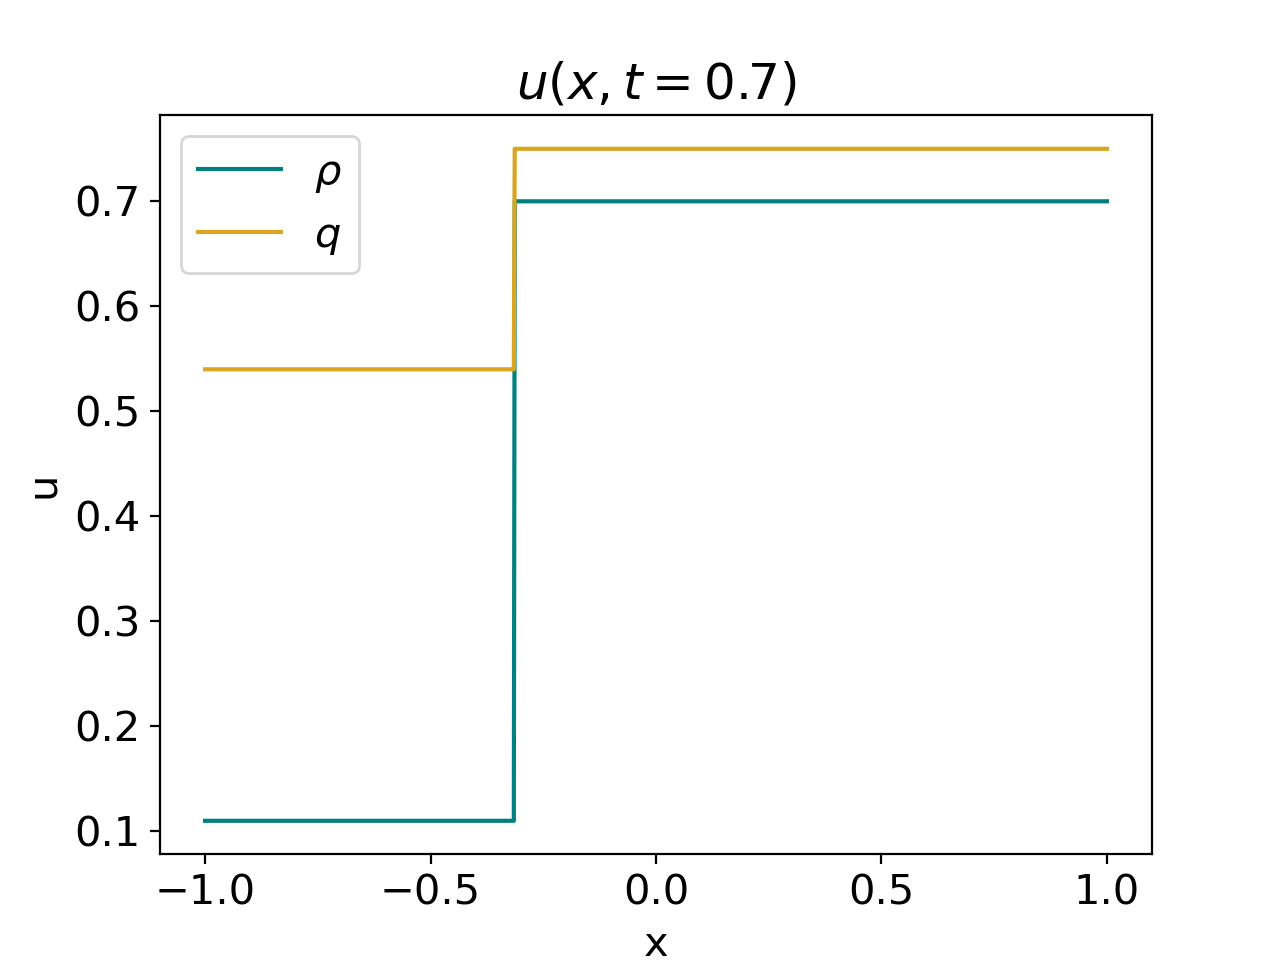
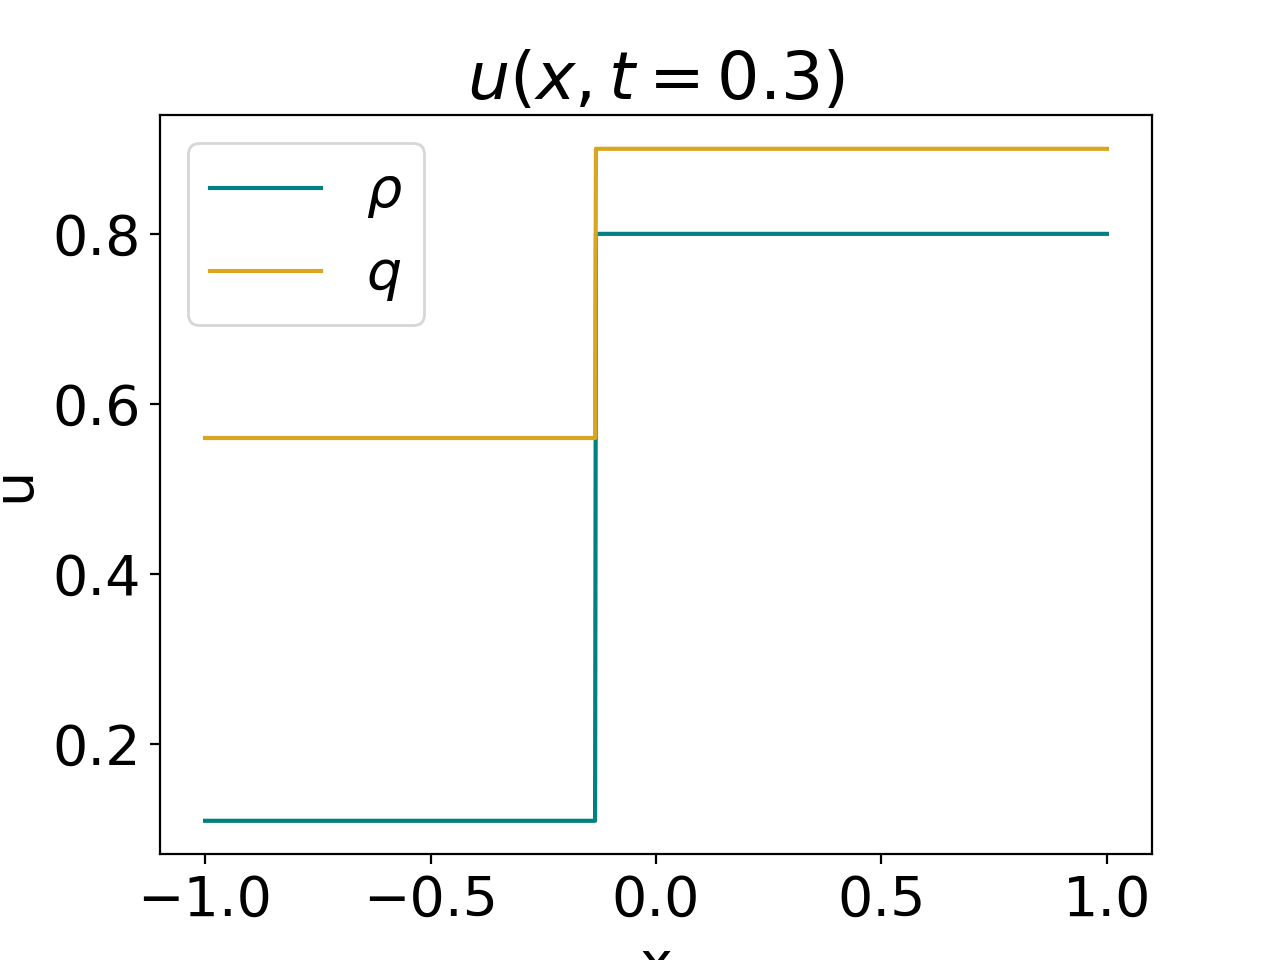
Flere figurer

diff --git a/FreeToCong.py b/FreeToCong.py
@@ -23,7 +23,7 @@ vf = lambda rho: (1-rho/R)*V
 vc = lambda rho,q: (1-rho/R)*q/rho
 
 xs = np.linspace(-1,1,1000)
-ts = np.linspace(1,2, 1000)
+ts = np.linspace(0,1, 1000)
 
 # Eigenvalues
 lambda1 = lambda r,q: (2/R - 1/r)*(Q-q) - Q/R
@@ -38,30 +38,46 @@ w_r = lambda r, q, xi: ( R*(r*xi - q +Q) + Q*r)/(2*(Q-q))
 w_q = lambda r, q, xi: R/2*( (q-Q)/r - xi ) +Q/2
 
 # Initial values, u_l, u_r
-r_l = 0.08
-q_l = 0.38
 
-r_m1 = 0.25
-q_m1 = 0.38
+r_l = 0.79
+q_l = 0.9
 
-r_m2 = 0.68
-q_m2 = 0.16
+r_m1 = 0.24
+q_m1 = 0.62
 
-r_r = 0.9
-q_r = 0.65
+r_m2 = 0.24
+q_m2 = 0.62
+
+r_r = 0.11
+q_r = 0.56
+
+def initialValuesfor1a():
+    # 1-rarefaction followed by phase transition
+    r_l = 0.79
+    q_l = 0.9
+
+    r_m1 = 0.24
+    q_m1 = 0.62
+
+    r_m2 = 0.24
+    q_m2 = 0.62
+
+    r_r = 0.11
+    q_r = 0.56
 
 def initialValuesfor2a():
+    # Single phase transition fra u_l til u_r
     r_l = 0.11
     q_l = 0.55
 
-    r_m1 = 0.22
-    q_m1 = 0.58
+    r_m1 = 0.11
+    q_m1 = 0.55
 
-    r_m2 = 0.22
-    q_m2 = 0.58
+    r_m2 = 0.1
+    q_m2 = 0.55
 
-    r_r = 0.7
-    q_r = 0.75
+    r_r = 0.8
+    q_r = 0.2
 
 def initialValuesForCompoundWave3b():
     r_l = 0.08
@@ -186,11 +202,13 @@ print("r_r =", r_r)
 
 
 plotInitialValues()
+plotAnalyticalSolutionFreeToCong(0.3, True)
+plotAnalyticalSolutionFreeToCong(0.7, True)
 plotAnalyticalSolutionFreeToCong(0.7, True)
 plot_xtSolFreeToCong()
 
 
 
-print("Speed of phase boundary: " , Lambda(r_l, r_m1, q_l, q_m1))
-print("Speed of shock: " , lambda1(r_m2, q_m2))
-print("Speed of contact: ", lambda2(r_r, q_r))
+print("Speed of phase boundary from u_l to u_m1: " , Lambda(r_l, r_m1, q_l, q_m1))
+print("Speed of 1-wave at u_m2: " , lambda1(r_m2, q_m2))
+print("Speed of 2-contact at u_r: ", lambda2(r_r, q_r))
